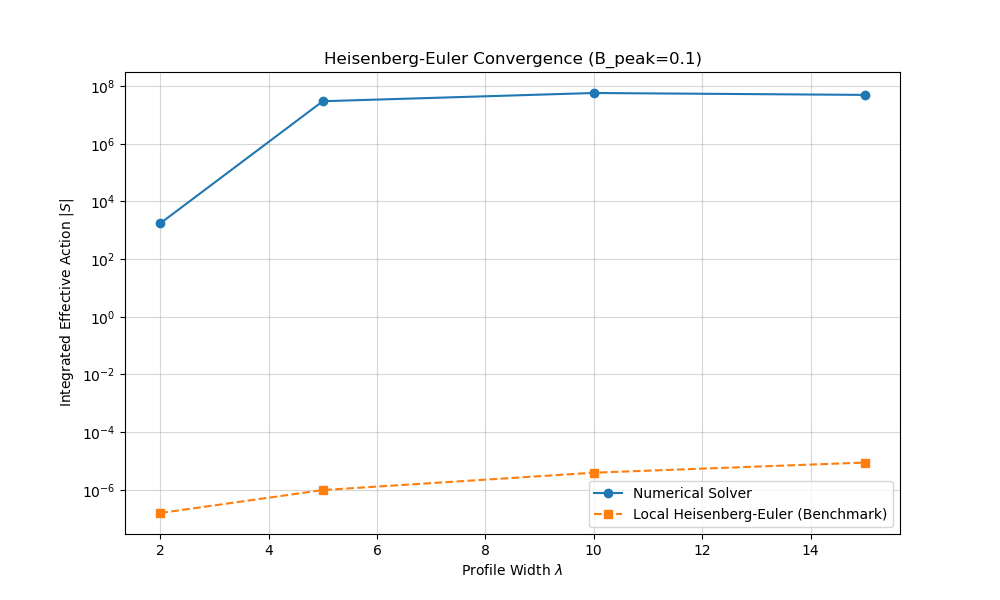
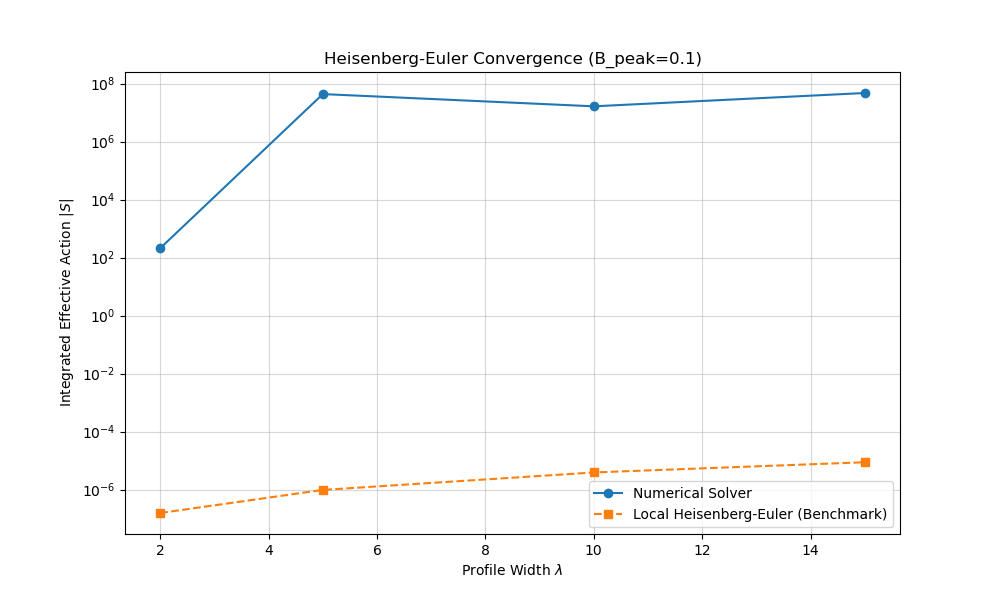
Validations passing

diff --git a/tests/test_spline_profile.py b/tests/test_spline_profile.py
@@ -6,7 +6,7 @@ from src.python.field_profile_mlp import SplineProfile
 def test_spline_profile():
     print("--- Testing SplineProfile ---")
     # Use a high-resolution grid near zero to check the derivative
-    rho = torch.linspace(0.0, 10.0, 2000)
+    rho = torch.linspace(0.0, 10.0, 2000, dtype=torch.float64)
     target_flux = 2.0 * np.pi * 0.4
     
     # Initialize Spline Profile
@@ -18,7 +18,7 @@ def test_spline_profile():
     calculated_flux = 2.0 * np.pi * torch.sum(B.squeeze() * rho * dr)
     print(f"Target Flux:     {target_flux:.6f}")
     print(f"Calculated Flux: {calculated_flux.item():.6f}")
-    assert torch.allclose(torch.tensor(target_flux), calculated_flux, rtol=1e-2), "Flux not conserved!"
+    assert torch.allclose(torch.tensor(target_flux, dtype=torch.float64), calculated_flux, rtol=1e-2), "Flux not conserved!"
 
     # 2. Verify Continuity (Visual/Numerical)
     # Check for NaNs or Inf